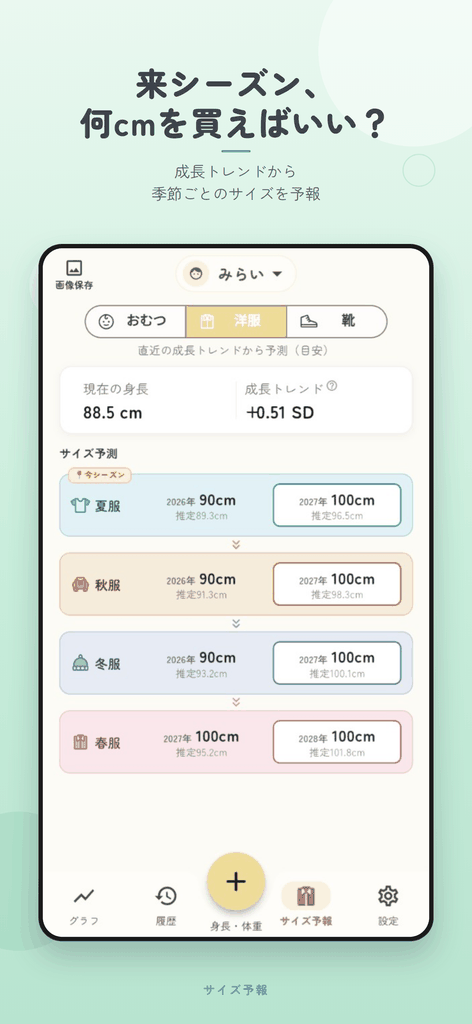
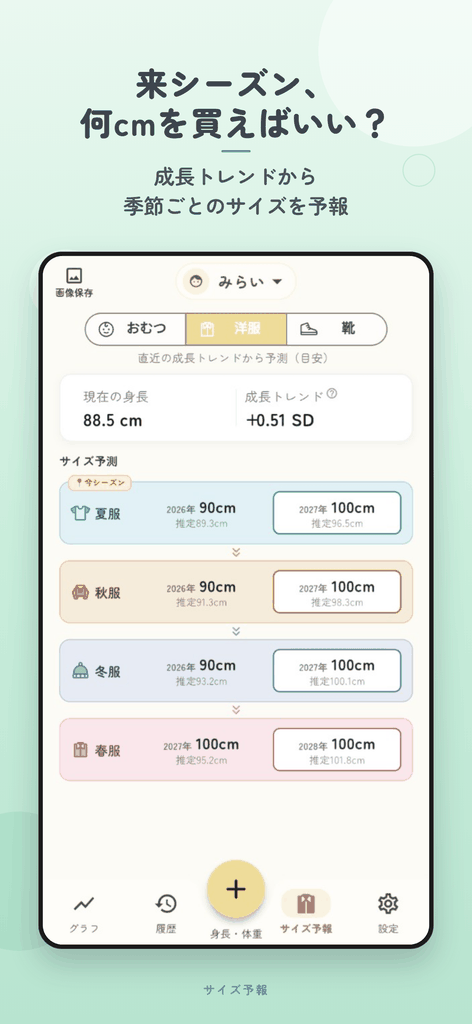
ストアスライドの靴見出しの改行位置を修正し、サブコピーを大きく太くして視認性を改善

Changed region(s): [[0.089, 0.1562, 0.9195, 0.7812], [0.089, 0.8125, 0.9195, 0.9375]]

diff --git a/docs/store-assets/slide-04-shoe-guide.html b/docs/store-assets/slide-04-shoe-guide.html
@@ -18,7 +18,7 @@
 
   <div class="content">
     <div class="headline">
-      <h1>「足痛い」と言われる前に、<br>気づける</h1>
+      <h1>「足痛い」と言われる<br>前に、気づける</h1>
       <div class="accent-line"></div>
       <p>小さくなる前に、<br>買い替えのタイミングがわかる</p>
     </div>

diff --git a/docs/store-assets/common.css b/docs/store-assets/common.css
@@ -59,10 +59,10 @@ body {
   letter-spacing: 0.02em;
 }
 .headline p {
-  margin-top: 20px;
-  font-size: 42px;
-  font-weight: 400;
-  color: #55606B;
+  margin-top: 22px;
+  font-size: 56px;
+  font-weight: 700;
+  color: #4A545E;
   line-height: 1.45;
 }
 .accent-line {
